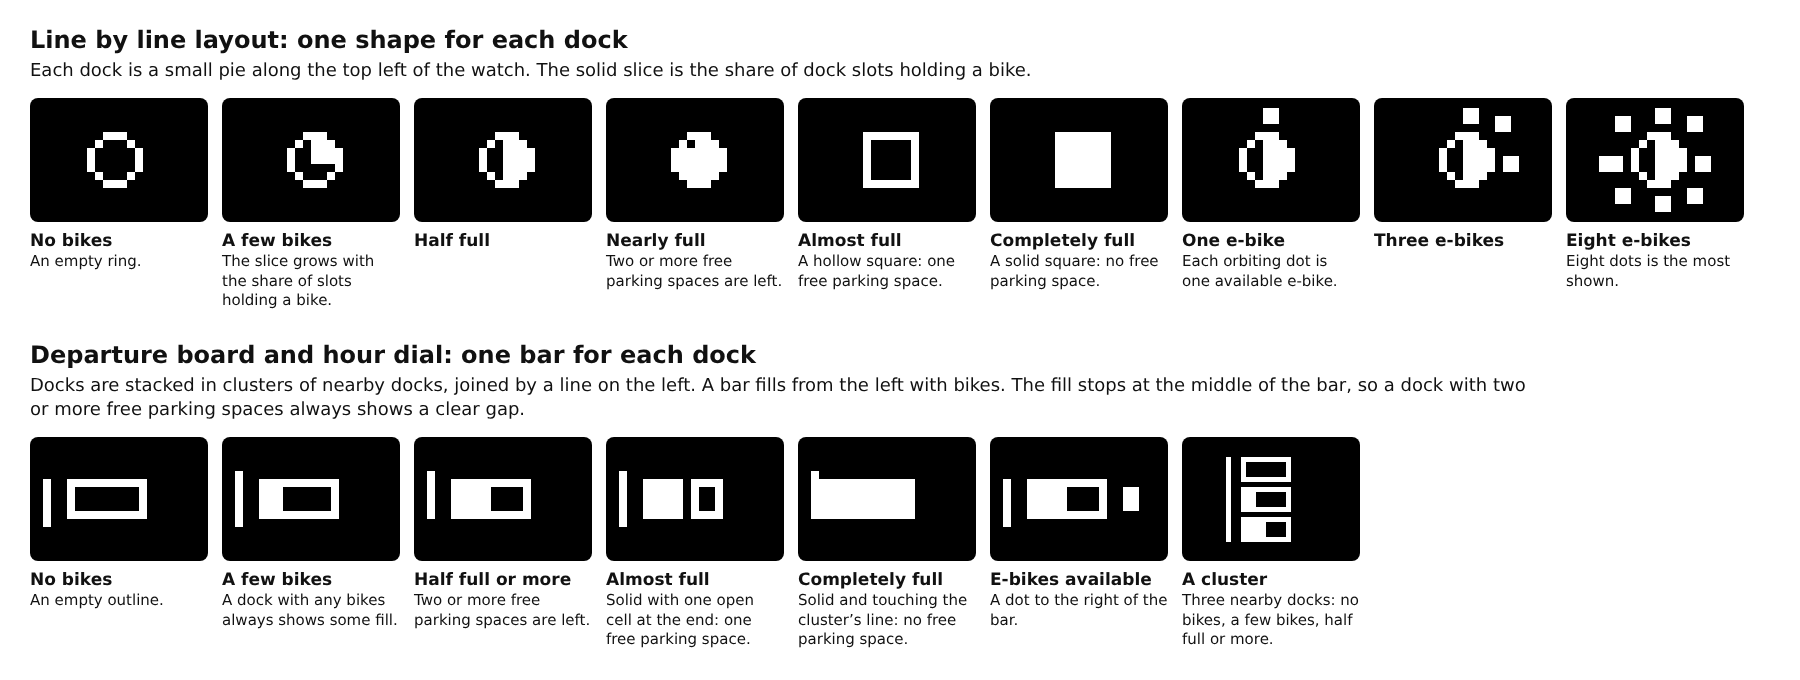
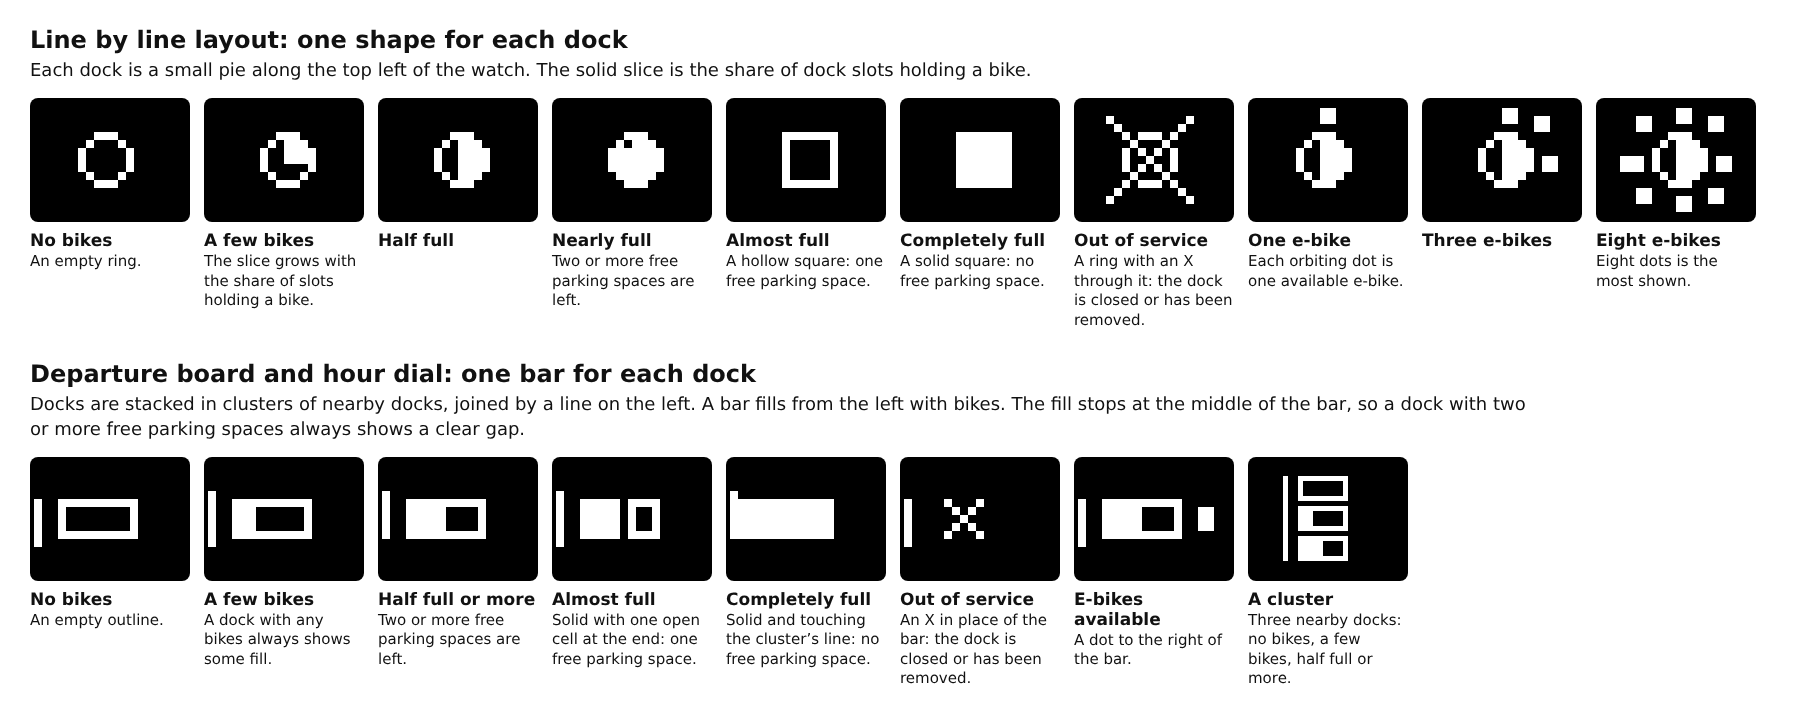
Guides: phone-friendly Bluebikes indicator sections, the crossed-out dock state, README fold-outs
Claude-Session: https://claude.ai/code/session_018kUttcRWv8pxFU9anVHVt8

Changed region(s): [[0.0, 0.0309, 0.9956, 0.4632], [0.0, 0.4941, 0.84, 0.9574]]

diff --git a/docs/watch-guide.html b/docs/watch-guide.html
@@ -7,8 +7,10 @@
        #board -> guide-board.png   (screen: screen-guide-board.png)
        #dial  -> guide-dial.png    (screen: screen-guide-dial.png)
      Add -m for one guide as a narrow page, e.g. #board-m -> guide-board-mobile.png
-     (rendered 800px wide). #m, or opening the page on a phone, shows all three
-     narrow guides on one scrolling page.
+     (rendered 800px wide). #pies and #bars are the Bluebikes indicators
+     (-> guide-bikes-pies-mobile.png, guide-bikes-bars-mobile.png; screens:
+     screen-bikes-*.png). #m, or opening the page on a phone, shows every
+     narrow guide on one scrolling page.
      Each screen is a 144x168 capture of the watch showing demo data. -->
 <style>
 body{margin:0;background:#fff;font-family:"DejaVu Sans","Liberation Sans",sans-serif;color:#111}
@@ -29,6 +31,12 @@ svg{position:absolute;left:0;top:0}
 .m .e b{display:block;font-size:1.12em;margin-bottom:.08em}
 .m .n{flex:none;box-sizing:border-box;min-width:1.55em;padding:0 .3em;height:1.55em;border-radius:1em;background:#e3121b;color:#fff;font-weight:bold;font-size:.92em;line-height:1.55em;text-align:center;margin-top:.06em}
 .m .k{display:inline-block;background:#e3121b;color:#fff;font-weight:bold;font-size:.8em;line-height:1.5;padding:0 .5em;border-radius:1em;vertical-align:.08em}
+.m .note{margin:.1em 5% 0}
+.m .bk .e{align-items:center;margin:0 5% .6em}
+.m .bk .e:first-of-type{margin-top:.9em}
+.m .tile{flex:none;display:flex;align-items:center;justify-content:center;width:6.2em;height:4.3em;background:#000;border-radius:.4em}
+.m .tile svg{width:auto;height:auto;display:block}
+.m section:last-child{padding-bottom:1.2em}
 .m ul{margin:.1em 0 0;padding-left:1.15em}.m li{margin:.08em 0}
 </style>
 <div id="c"><img id="w" src="watch-screen.png"><svg id="s"></svg></div>
@@ -38,6 +46,44 @@ function px(x){return X0+x*K} function py(y){return Y0+y*K}
 // Targets are in watch pixels: box [x1,y1,x2,y2] or circ [cx,cy,r].
 // top: the arrow runs across the top margin and drops onto the target.
 // at: [x,y] watch pixel the arrow should end at instead of the nearest edge.
+// The Bluebikes indicators, for the narrow page. Each item is a crop of a
+// 144x168 capture, [capture, x, y, width, height], with a name and what it means.
+function pie(img,slot){return [img,6+13*slot-7,0,14,13]}
+function bar(cluster,i){return ['bars',75+20*cluster,2+6*i,19,7]}
+var BIKES={
+pies:{name:'Bluebikes indicators: line by line',note:'One shape for each dock, along the top left.',items:[
+ [pie('pies',0),'No bikes','An empty ring.'],
+ [pie('pies',1),'A few bikes','The slice is the share of dock slots holding a bike.'],
+ [pie('pies',2),'Half full',''],
+ [pie('pies',3),'Nearly full','Two or more free parking spaces.'],
+ [pie('pies',4),'Almost full','Hollow square: one free parking space.'],
+ [pie('pies',5),'Completely full','Solid square: no free parking space.'],
+ [pie('ebikes',1),'E-bikes','One orbiting dot for each e-bike, up to eight.'],
+ [pie('closed-pies',0),'Out of service','Crossed out: the dock is closed or removed.']
+]},
+bars:{name:'Bluebikes indicators: departure board and hour dial',note:'One bar for each dock, stacked in clusters of nearby docks.',items:[
+ [bar(0,0),'No bikes','An empty outline.'],
+ [bar(0,1),'A few bikes','A bar fills from the left with bikes.'],
+ [bar(0,2),'Half full or more','Two or more free parking spaces.'],
+ [bar(1,1),'Almost full','One open cell at the end: one free parking space.'],
+ [bar(1,2),'Completely full','Solid and touching the line: no free parking space.'],
+ [bar(2,0),'E-bikes','A dot to the right of the bar.'],
+ [['closed-bars',75,2,19,7],'Out of service','An X: the dock is closed or removed.'],
+ [['bars',74,2,20,19],'A cluster','Three nearby docks, joined by a line.']
+]}
+};
+function bikes(key){
+  var g=BIKES[key],h='<section class="g bk" id="'+key+'"><h2>'+g.name+'</h2><p class="note">'+g.note+'</p>';
+  g.items.forEach(function(it){
+    var k=it[0];
+    // The crop is its own small SVG so the pixels stay sharp at any size.
+    h+='<div class="e"><span class="tile"><svg viewBox="'+k[1]+' '+k[2]+' '+k[3]+' '+k[4]+'" style="width:'+(k[3]*(k[4]>14?0.19:0.26)).toFixed(2)+'em">'+
+       '<image href="screen-bikes-'+k[0]+'.png" width="144" height="168" style="image-rendering:pixelated"/></svg></span>'+
+       '<div><b>'+it[1]+'</b>'+it[2]+'</div></div>';
+  });
+  return h+'</section>';
+}
+
 // Lines of a body that start with "- " are drawn as a bulleted list.
 var BIKE_DATA='- Solid circle: dock data is up to date.<br>- Pulsing: downloading (every minute).<br>- X: the last download failed.<br>- Hidden when no docks are set.';
 var TRAIN_DATA='- Solid circle: timetables are up to date.<br>- Pulsing: downloading (every 2 minutes).<br>- X: the last download failed.';
@@ -128,16 +174,21 @@ mobile:[
 // The hash picks what is shown:
 //   #board     the wide guide, callouts on both sides (also #line, #dial)
 //   #board-m   that guide as a narrow page: numbered markers, shorter list
-//   #m         all three narrow guides on one scrolling page; this is also
-//              what a phone gets when the page is opened without a hash.
+//   #m         every narrow guide on one scrolling page, each layout followed
+//              by its Bluebikes indicators; this is also what a phone gets
+//              when the page is opened without a hash.
+//   #pies, #bars   one set of Bluebikes indicators as a narrow page
 var hash=location.hash.slice(1),parts=hash.split('-');
 var ALL=hash==='m'||(!hash&&Math.min(window.innerWidth,screen.width)<900);
 var guide=GUIDES[parts[0]]||GUIDES.line,items=guide.items;
+if(BIKES[parts[0]])parts[1]='m';
 var c=document.getElementById('c'),w=document.getElementById('w'),R='#e3121b';
 var W=2000,TW=470,TL=20,TR=1510;
 if(ALL||parts[1]==='m'){
   w.remove();document.getElementById('s').remove();c.className='m';
-  c.innerHTML=(ALL?['line','board','dial']:[parts[0]]).map(narrow).join('');
+  // The Bluebikes indicators follow the layouts that use them.
+  var show=function(key){return BIKES[key]?bikes(key):narrow(key)};
+  c.innerHTML=(ALL?['line','pies','board','dial','bars']:[parts[0]]).map(show).join('');
 }else{
   c.style.width=W+'px';w.src=guide.img;Y0=guide.y0;
   w.style.left=X0+'px';w.style.top=Y0+'px';w.style.width=144*K+'px';w.style.height=168*K+'px';

diff --git a/docs/guide-bikes.html b/docs/guide-bikes.html
@@ -9,7 +9,7 @@ h2{font-size:24px;margin:0 0 4px}
 p.note{font-size:18px;line-height:1.35;margin:0 0 16px;max-width:1500px}
 .row{display:flex;gap:14px;margin-bottom:30px;align-items:flex-start}
 .row:last-child{margin-bottom:0}
-.it{width:178px;flex:none}
+.it{width:160px;flex:none}
 .tile{height:124px;background:#000;border-radius:8px;display:flex;align-items:center;justify-content:center}
 .px{image-rendering:pixelated;background-repeat:no-repeat}
 .it b{display:block;font-size:17px;margin:8px 0 2px}
@@ -30,6 +30,7 @@ var ROWS=[
    [pie('pies',3),'Nearly full','Two or more free parking spaces are left.'],
    [pie('pies',4),'Almost full','A hollow square: one free parking space.'],
    [pie('pies',5),'Completely full','A solid square: no free parking space.'],
+   [pie('closed-pies',0),'Out of service','A ring with an X through it: the dock is closed or has been removed.'],
    [pie('ebikes',0),'One e-bike','Each orbiting dot is one available e-bike.'],
    [pie('ebikes',1),'Three e-bikes',''],
    [pie('ebikes',2),'Eight e-bikes','Eight dots is the most shown.']
@@ -42,6 +43,7 @@ var ROWS=[
    [bar(0,2),'Half full or more','Two or more free parking spaces are left.'],
    [bar(1,1),'Almost full','Solid with one open cell at the end: one free parking space.'],
    [bar(1,2),'Completely full','Solid and touching the cluster’s line: no free parking space.'],
+   [['closed-bars',75,2,19,7],'Out of service','An X in place of the bar: the dock is closed or has been removed.'],
    [bar(2,0),'E-bikes available','A dot to the right of the bar.'],
    [['bars',74,2,20,19,5],'A cluster','Three nearby docks: no bikes, a few bikes, half full or more.']
   ]}

diff --git a/CLAUDE.md b/CLAUDE.md
@@ -103,7 +103,7 @@ The `version` in `package.json` is what the Pebble phone app shows for the watch
 
 ## Documentation Voice
 
-Write the README, the watch guides (`docs/watch-guide.html`, rendered to `docs/watch-guide.png`, `docs/guide-board.png` and `docs/guide-dial.png`; and `docs/guide-bikes.html`, rendered to `docs/guide-bikes.png`) and other user-facing docs the way the owner writes them. The callout text in the watch guide is the reference:
+Write the README, the watch guides (`docs/watch-guide.html`, rendered to `docs/watch-guide.png`, `docs/guide-board.png` and `docs/guide-dial.png`, plus a narrow `-mobile.png` version of each for phones; and `docs/guide-bikes.html`, rendered to `docs/guide-bikes.png`) and other user-facing docs the way the owner writes them. The callout text in the watch guide is the reference:
 
 - Explain what the reader sees and what it means for them, not how the code does it: "A hollow square means almost full: one free parking space."
 - Name things by what they are on the watch: "train timetable header", "data connection", "end of service", "orbiting dots". Avoid internal names (row label, fetch, flag).

diff --git a/README.md b/README.md
@@ -93,6 +93,20 @@ per-station query, so each refresh downloads the whole system's status (about
 
 ![Every Bluebikes dock indicator, enlarged](docs/guide-bikes.png)
 
+<details>
+<summary>Reading on a phone? Open the narrow version: line by line.</summary>
+
+![Bluebikes indicators for the line by line layout, narrow version](docs/guide-bikes-pies-mobile.png)
+
+</details>
+
+<details>
+<summary>Narrow version: departure board and hour dial.</summary>
+
+![Bluebikes indicators for the departure board and hour dial, narrow version](docs/guide-bikes-bars-mobile.png)
+
+</details>
+
 A dock that is out of service, or that Bluebikes has removed, is crossed out:
 a ring with an X through it in the line by line layout, and an X in place of
 its bar in the other layouts.
